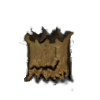
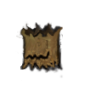
Fixed sprite, bounding-boxes and behaviour of Mr. Tree

diff --git a/branches/supertux-nogl/src/badguy/mrtree.cpp b/branches/supertux-nogl/src/badguy/mrtree.cpp
@@ -23,7 +23,8 @@
 #include "mrtree.hpp"
 
 static const float WALKSPEED = 100;
-static const float WALKSPEED_SMALL =120;
+static const float WALKSPEED_SMALL = 120;
+static const float INVINCIBLE_TIME = 1;
 
 MrTree::MrTree(const lisp::Lisp& reader)
   : mystate(STATE_BIG)
@@ -50,13 +51,15 @@ MrTree::write(lisp::Writer& writer)
 void
 MrTree::activate()
 {
-  if(mystate == STATE_BIG) {
+  if (mystate == STATE_BIG) {
     physic.set_velocity_x(dir == LEFT ? -WALKSPEED : WALKSPEED);
     sprite->set_action(dir == LEFT ? "large-left" : "large-right");
-  } else {
+    return;
+  }
+  if (mystate == STATE_NORMAL) {
     physic.set_velocity_x(dir == LEFT ? -WALKSPEED_SMALL : WALKSPEED_SMALL);
-    bbox.set_size(31.8, 31.8);
     sprite->set_action(dir == LEFT ? "small-left" : "small-right");
+    return;
   }
 }
 
@@ -66,8 +69,7 @@ MrTree::active_update(float elapsed_time)
   if (stay_on_platform && may_fall_off_platform())
   {
     dir = (dir == LEFT ? RIGHT : LEFT);
-    sprite->set_action(dir == LEFT ? "large-left" : "large-right");
-    physic.set_velocity_x(-physic.get_velocity_x());
+    activate();
   }
 
   BadGuy::active_update(elapsed_time);
@@ -76,21 +78,37 @@ MrTree::active_update(float elapsed_time)
 bool
 MrTree::collision_squished(Player& player)
 {
+  // if we're big, we shrink
   if(mystate == STATE_BIG) {
     mystate = STATE_NORMAL;
     activate();
 
-  
+    // shrink bounding box and adjust sprite position to where the stump once was
+    bbox.set_size(42, 62);
+    Vector pos = get_pos();
+    pos.x += 20;
+    pos.y += 23;
+    set_pos(pos);
+
     sound_manager->play("sounds/mr_tree.ogg", get_pos());
     player.bounce(*this);
-  } else {
-bbox.set_size(67.8, 99.8);
-sprite->set_action(dir == LEFT ? "squished-left" : "squished-right");
-sound_manager->play("sounds/mr_treehit.ogg", get_pos());
-player.bounce(*this);
-   
+
+    invincible_timer.start(INVINCIBLE_TIME);
+
+    return true;
   }
-  
+
+  // if we're small, but still invincible, we ignore the hit
+  if (!invincible_timer.check()) {
+    sound_manager->play("sounds/mr_treehit.ogg", get_pos());
+    player.bounce(*this);
+    return true;
+  }
+
+  // if we're small and no longer invincible, we die
+  sprite->set_action(dir == LEFT ? "squished-left" : "squished-right");
+  bbox.set_size(42, 42);
+  kill_squished(player);
   return true;
 }
 

diff --git a/branches/supertux-nogl/src/badguy/mrtree.hpp b/branches/supertux-nogl/src/badguy/mrtree.hpp
@@ -41,6 +41,8 @@ protected:
   MyState mystate;
   bool stay_on_platform;
 
+  Timer invincible_timer;
+
   bool collision_squished(Player& player);
 };
 
